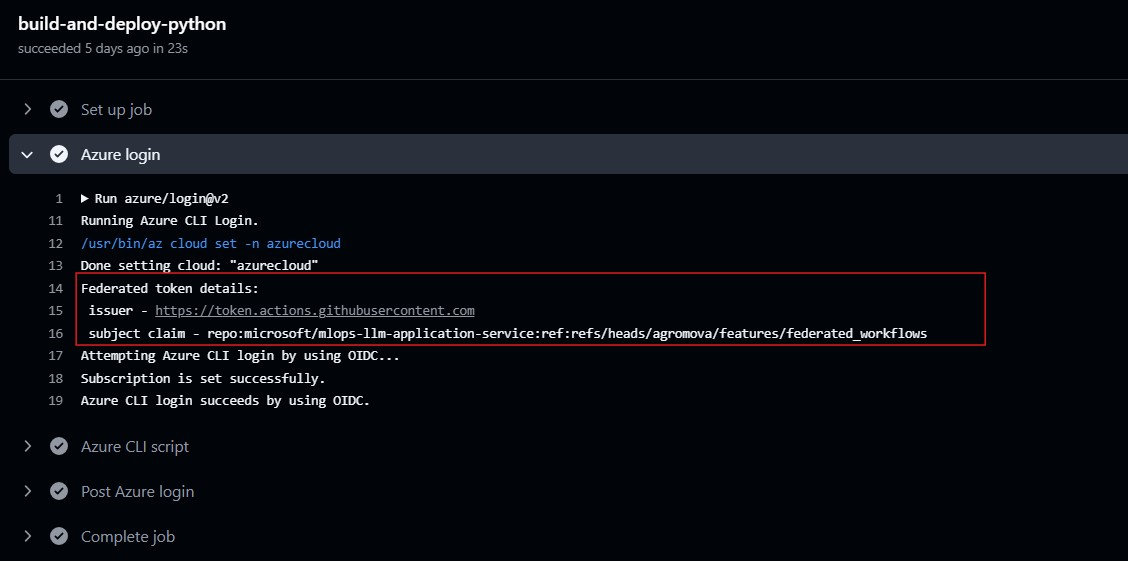
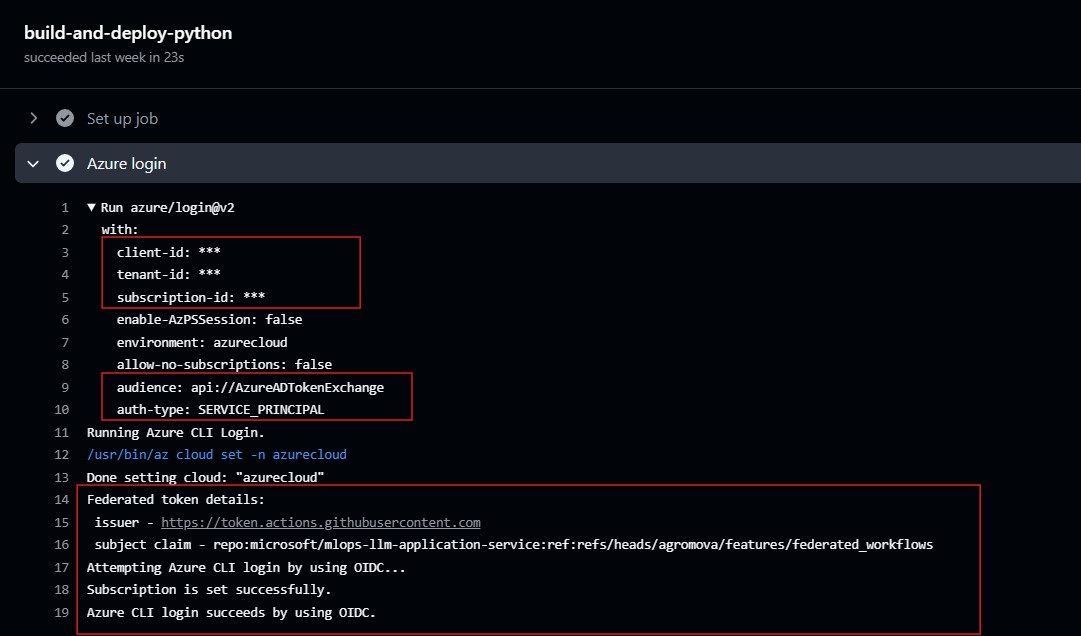
Updated

Changed region(s): [[0.0, 0.1818, 1.0, 1.0], [0.0, 0.0303, 0.2137, 0.1212]]

diff --git a/docs/federated_identity_openid_connect.md b/docs/federated_identity_openid_connect.md
@@ -35,15 +35,17 @@ OpenID Connect (OIDC) with Azure and GitHub
         ![Pull Request](../docs/images/add_credential_GitHub_actions.png)
 
 
-* ### Step 3: Create GitHub Secrets/Variables
-    Create GitHub secrets/variables to store sensitive information. Copy these values from your Microsoft Entra application or user-assigned managed identity for your GitHub secrets:
-    * AZURE_CLIENT_ID
-    * AZURE_TENANT_ID
-    * AZURE_SUBSCRIPTION_ID 
+* ### Step 3: Set GitHub Permissions and Secrets/Variables
+    1. Set GitHub workflows permissions so that the token can work with Azure subscription. The workflow requires `id-token: write` and `contents: read` permissions. The `id-token: write` permission allows the workflow to request an OIDC token from GitHub's OIDC provider.
+    2. Create GitHub secrets/variables to store Microsoft Entra application details or user-assigned managed identity for your GitHub secrets:
+      * AZURE_CLIENT_ID
+      * AZURE_TENANT_ID
+      * AZURE_SUBSCRIPTION_ID
+    3. Configure `azure/login@`action within GitHub workflows to exchange GitHub tokens issued to the workflow for an access token from Microsoft identity platform. The `azure/login@`action picks up the OIDC token and exchanges it with Azure Active Directory (Azure AD) to obtain an access token. Azure AD verifies the OIDC token and issues an access token if the token is valid and the federated identity credential configuration matches.
 
 
-* ### Step 4: Use OpenID Connect Azure CLI to authenticate with the Azure login action.
-    Service principe federated identity is ready. Here, we are going to add setup for the `platform_ci_python.yaml` pipeline workflow job build-and-deploy-python with Github Action to generate OIDC token, which azure/loging@v2 will pick up and exchange against AAD. Start by adding permissions and `azure/login@v2` action:
+* ### Step 4: CI Workflow example with OpenID Connect and the Azure login action.
+     The `platform_ci_python.yaml` pipeline workflow contains a single job, `build-and-deploy-python`, which Github Actions to generate OIDC token. The `azure/loging@v2` will pick up and exchange against AAD. Start by adding permissions and `azure/login@v2` action:
 
   * ``platform_ci_python.yaml``
       ```
@@ -68,13 +70,7 @@ OpenID Connect (OIDC) with Azure and GitHub
                 client-id: ${{ secrets.AZURE_CLIENT_ID }}
                 tenant-id: ${{ secrets.AZURE_TENANT_ID }}
                 subscription-id: ${{ secrets.AZURE_SUBSCRIPTION_ID }}
-      
-            - name: Azure CLI script
-              uses: azure/cli@v2
-              with:
-                azcliversion: latest
-                inlineScript: |
-                  az account show
 
       ```
   * ![platform_ci_python](../docs/images/azure_login_screenshot_oidc.jpg)
+  
